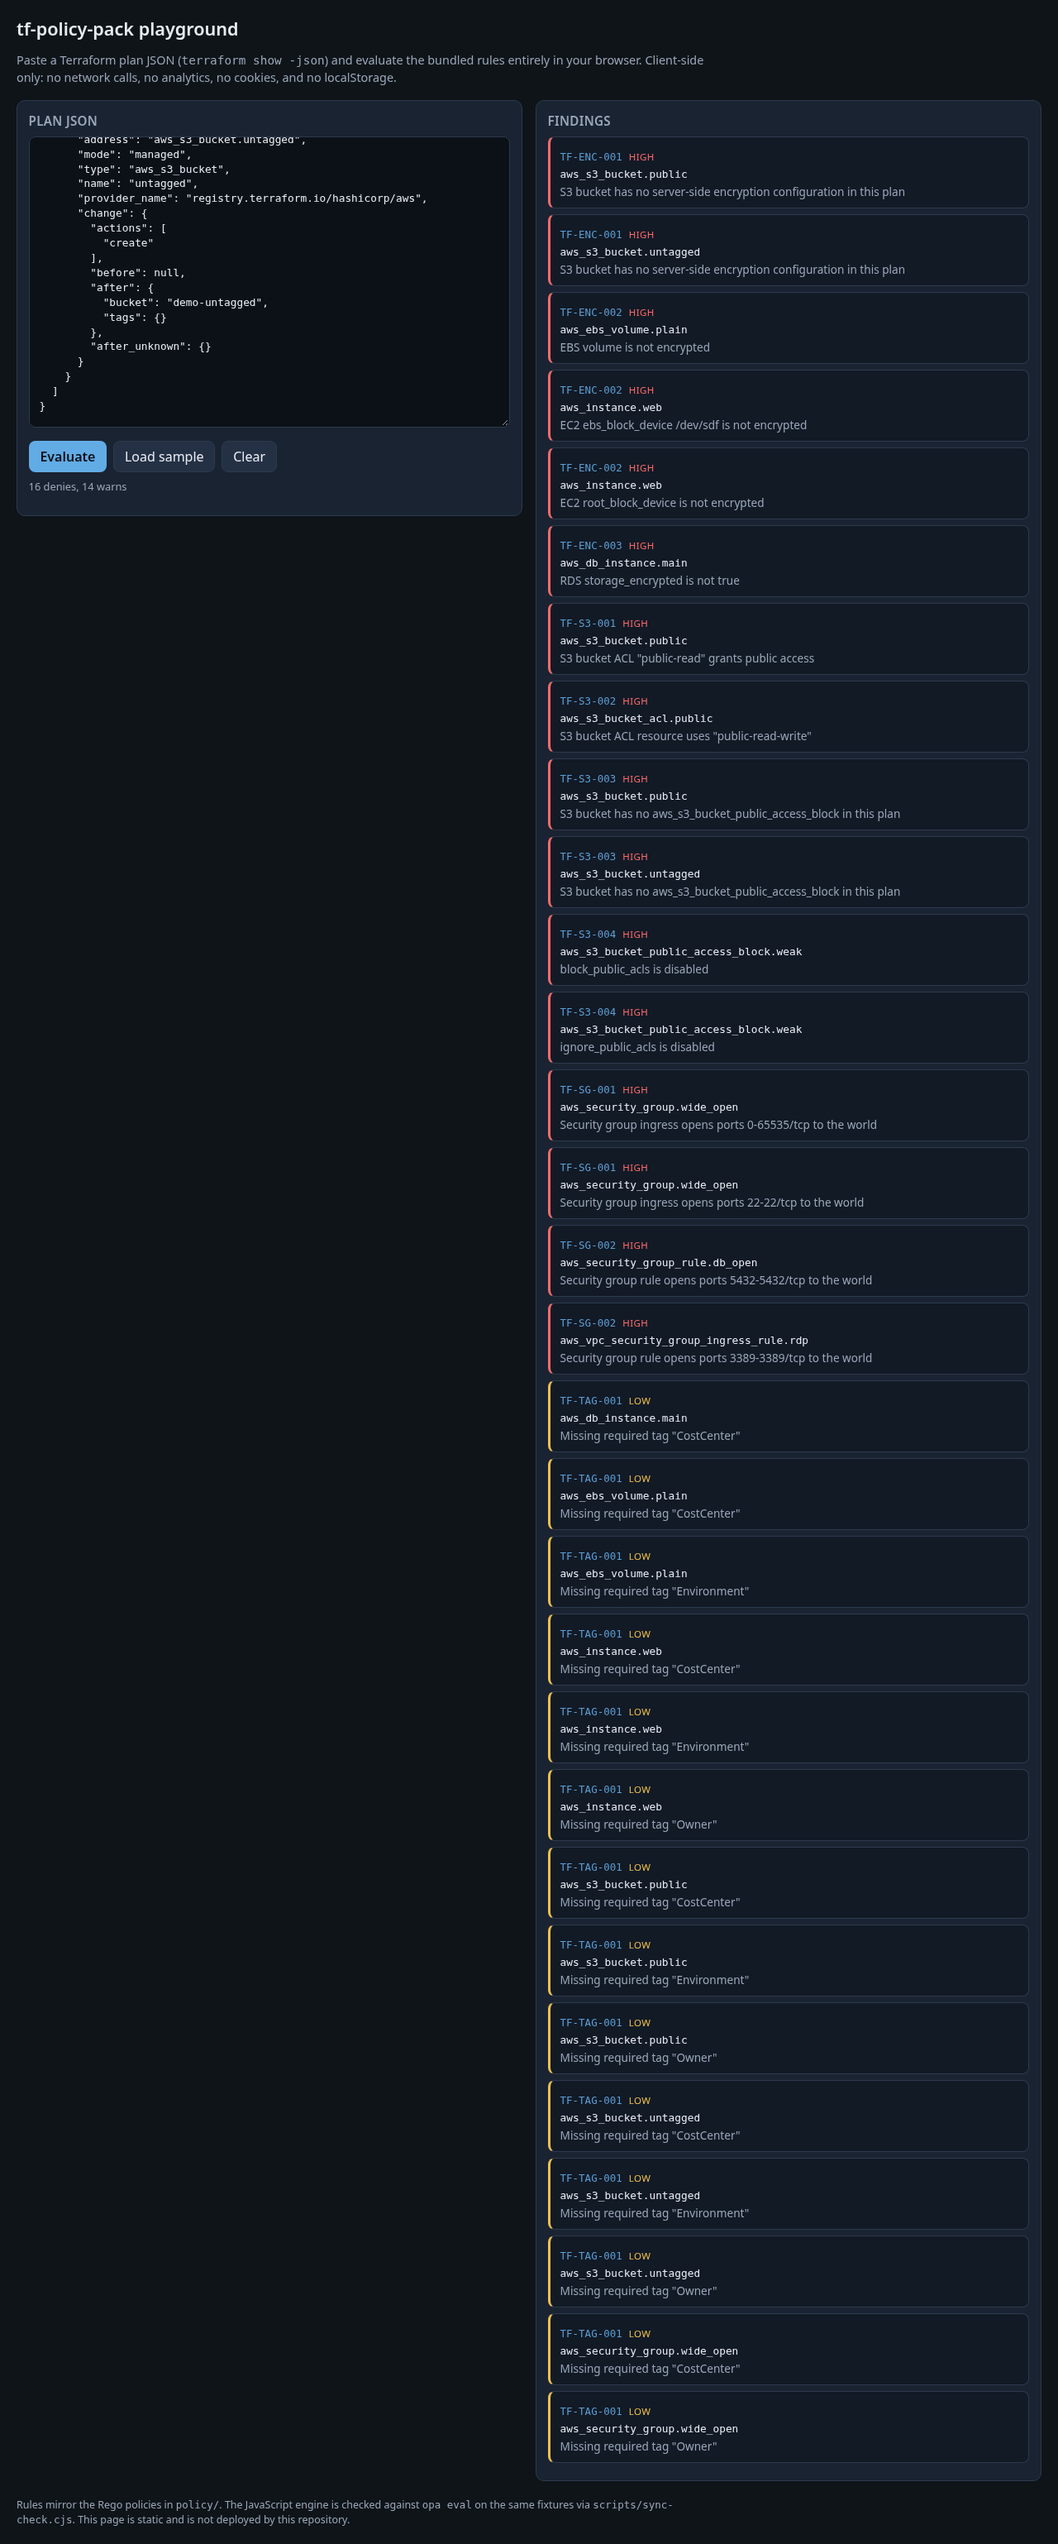
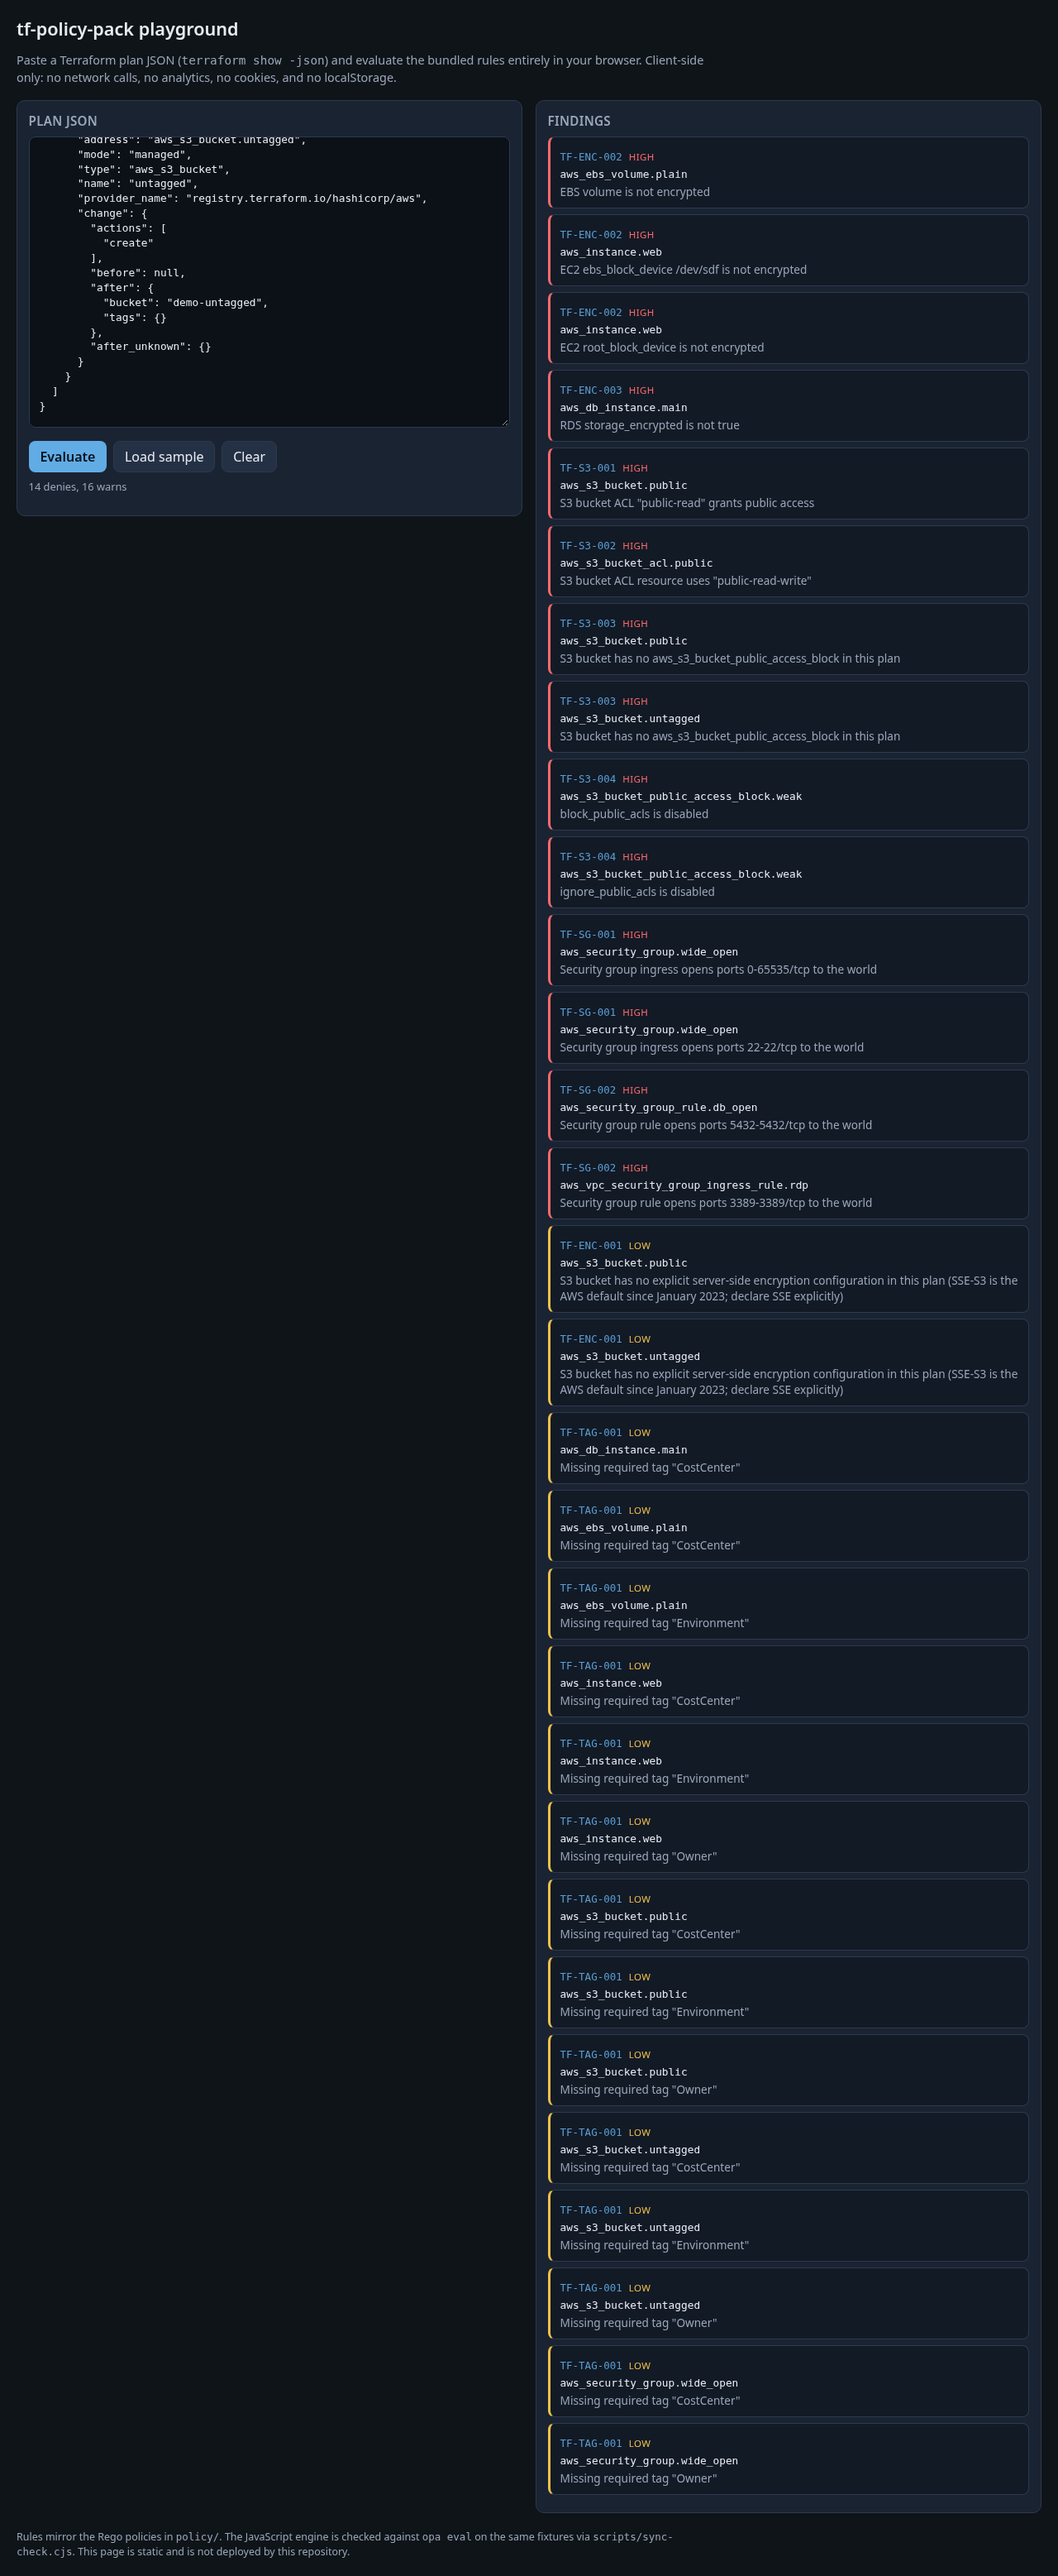
Prefer tags_all, warn on missing S3 SSE, fix module-scoped bucket match
Mafee rule fixes: tags_of prefers tags_all so provider default_tags count;
TF-ENC-001 is a low warn (SSE-S3 default since Jan 2023); authenticated-read
added to public ACL denies; PAB/SSE name matching requires same module_address
and drops the dead address equality. Doug: hardcode OPA/Conftest SHA256 in CI.

diff --git a/playground/policy.js b/playground/policy.js
@@ -1,6 +1,6 @@
 /**
  * Faithful client-side port of the Rego policies in ../policy.
- * Kept in sync by scripts/sync-check.mjs (compares against opa eval on fixtures).
+ * Kept in sync by scripts/sync-check.cjs (compares against opa eval on fixtures).
  */
 (function (root, factory) {
   var api = factory();
@@ -16,6 +16,7 @@
 
   var SENSITIVE_PORTS = [22, 3389, 1433, 1521, 3306, 5432, 6379, 27017, 9200, 11211];
   var DEFAULT_TAGS = ["Owner", "Environment", "CostCenter"];
+  var PUBLIC_ACLS = { "public-read": 1, "public-read-write": 1, "authenticated-read": 1 };
   var TAGGABLE = {
     aws_s3_bucket: 1,
     aws_instance: 1,
@@ -57,10 +58,20 @@
     return rc.change.after;
   }
 
+  function moduleAddress(rc) {
+    return rc.module_address != null ? String(rc.module_address) : "";
+  }
+
+  function sameModule(a, b) {
+    return moduleAddress(a) === moduleAddress(b);
+  }
+
+  // Prefer tags_all (includes provider default_tags). Fall back to tags only when
+  // tags_all is missing, null, or not a plain object.
   function tagsOf(rc) {
     var a = after(rc);
-    if (a.tags && typeof a.tags === "object") return a.tags;
-    if (a.tags_all && typeof a.tags_all === "object") return a.tags_all;
+    if (a.tags_all != null && typeof a.tags_all === "object" && !Array.isArray(a.tags_all)) return a.tags_all;
+    if (a.tags != null && typeof a.tags === "object" && !Array.isArray(a.tags)) return a.tags;
     return {};
   }
 
@@ -104,18 +115,14 @@
 
   function bucketMatches(bucketRc, ref) {
     var a = after(bucketRc);
-    return (
-      ref === a.bucket ||
-      ref === a.id ||
-      ref === bucketRc.address ||
-      ref === bucketRc.type + "." + bucketRc.name
-    );
+    return ref === a.bucket || ref === a.id || ref === bucketRc.type + "." + bucketRc.name;
   }
 
   function hasPublicAccessBlock(rcs, bucketRc) {
     for (var i = 0; i < rcs.length; i++) {
       var pab = rcs[i];
       if (pab.type !== "aws_s3_bucket_public_access_block") continue;
+      if (!sameModule(pab, bucketRc)) continue;
       if (pab.name === bucketRc.name) return true;
       var ref = after(pab).bucket || "";
       if (ref && bucketMatches(bucketRc, ref)) return true;
@@ -129,9 +136,10 @@
     for (var i = 0; i < rcs.length; i++) {
       var sse = rcs[i];
       if (sse.type !== "aws_s3_bucket_server_side_encryption_configuration") continue;
+      if (!sameModule(sse, bucketRc)) continue;
       if (sse.name === bucketRc.name) return true;
       var ref = after(sse).bucket || "";
-      if (ref && (ref === a.bucket || ref === bucketRc.address)) return true;
+      if (ref && ref === a.bucket) return true;
     }
     return false;
   }
@@ -186,7 +194,7 @@
       a = after(rc);
 
       if (rc.type === "aws_s3_bucket") {
-        if (a.acl === "public-read" || a.acl === "public-read-write") {
+        if (PUBLIC_ACLS[a.acl]) {
           deny.push(finding("TF-S3-001", "high", rc.address, 'S3 bucket ACL "' + a.acl + '" grants public access'));
         }
         if (!hasPublicAccessBlock(rcs, rc)) {
@@ -195,14 +203,19 @@
           );
         }
         if (!hasSSE(rcs, rc)) {
-          deny.push(
-            finding("TF-ENC-001", "high", rc.address, "S3 bucket has no server-side encryption configuration in this plan")
+          warn.push(
+            finding(
+              "TF-ENC-001",
+              "low",
+              rc.address,
+              "S3 bucket has no explicit server-side encryption configuration in this plan (SSE-S3 is the AWS default since January 2023; declare SSE explicitly)"
+            )
           );
         }
       }
 
       if (rc.type === "aws_s3_bucket_acl") {
-        if (a.acl === "public-read" || a.acl === "public-read-write") {
+        if (PUBLIC_ACLS[a.acl]) {
           deny.push(finding("TF-S3-002", "high", rc.address, 'S3 bucket ACL resource uses "' + a.acl + '"'));
         }
       }

diff --git a/README.md b/README.md
@@ -12,16 +12,16 @@ Infrastructure misconfigurations (public buckets, world-open SSH/RDP/DB ports, m
 
 | ID | Severity | Rule | Signal |
 | --- | --- | --- | --- |
-| `TF-S3-001` | high (`deny`) | Public S3 ACL on `aws_s3_bucket` | `acl` is `public-read` or `public-read-write` |
-| `TF-S3-002` | high (`deny`) | Public S3 ACL on `aws_s3_bucket_acl` | same ACL values |
-| `TF-S3-003` | high (`deny`) | Missing public access block | bucket in plan without matching `aws_s3_bucket_public_access_block` |
+| `TF-S3-001` | high (`deny`) | Public / authenticated-read S3 ACL on `aws_s3_bucket` | `acl` is `public-read`, `public-read-write`, or `authenticated-read` |
+| `TF-S3-002` | high (`deny`) | Public / authenticated-read S3 ACL on `aws_s3_bucket_acl` | same ACL values |
+| `TF-S3-003` | high (`deny`) | Missing public access block | bucket in plan without matching `aws_s3_bucket_public_access_block` in the same module |
 | `TF-S3-004` | high (`deny`) | Disabled public access block flags | any of the four block flags is false |
 | `TF-SG-001` | high (`deny`) | Open security group ingress | `0.0.0.0/0` or `::/0` on sensitive ports (22, 3389, DB ports) or all ports |
 | `TF-SG-002` | high (`deny`) | Open standalone SG / VPC ingress rule | same CIDR/port checks on `aws_security_group_rule` and `aws_vpc_security_group_ingress_rule` |
-| `TF-ENC-001` | high (`deny`) | S3 without SSE | no `aws_s3_bucket_server_side_encryption_configuration` (or legacy inline SSE) |
+| `TF-ENC-001` | low (`warn`) | S3 without explicit SSE | no `aws_s3_bucket_server_side_encryption_configuration` (or legacy inline SSE); AWS has SSE-S3 by default since Jan 2023 |
 | `TF-ENC-002` | high (`deny`) | Unencrypted EBS | `aws_ebs_volume` / EC2 root or ebs block devices with `encrypted != true` |
 | `TF-ENC-003` | high (`deny`) | Unencrypted RDS | `storage_encrypted != true` on `aws_db_instance` / `aws_rds_cluster` |
-| `TF-TAG-001` | low (`warn`) | Missing required tags | configurable keys (default `Owner`, `Environment`, `CostCenter`) |
+| `TF-TAG-001` | low (`warn`) | Missing required tags | configurable keys (default `Owner`, `Environment`, `CostCenter`); prefers `tags_all` so provider `default_tags` count |
 
 Required tag keys live in [`data/required_tags.json`](data/required_tags.json):
 
@@ -46,7 +46,7 @@ Sample output from the bundled bad fixture is in [`docs/sample-output.txt`](docs
 
 ## OPA unit tests
 
-Pinned tooling used while developing this pack: **OPA 1.22.2**, **Conftest 0.71.1** (checksum-verified from GitHub release assets).
+Pinned tooling used while developing this pack: **OPA 1.22.2**, **Conftest 0.71.1** (SHA256 values hardcoded in CI; verified against official GitHub release assets).
 
 ```bash
 opa test policy/ data/ -v
@@ -65,7 +65,7 @@ This repository does **not** deploy the playground.
 
 ## CI
 
-[`.github/workflows/ci.yml`](.github/workflows/ci.yml) runs on push/PR with `permissions: contents: read`, third-party actions pinned to full commit SHAs, checksum-verified OPA/Conftest installs, `opa test`, Conftest on good/bad fixtures, and the playground sync check.
+[`.github/workflows/ci.yml`](.github/workflows/ci.yml) runs on push/PR with `permissions: contents: read`, third-party actions pinned to full commit SHAs, OPA/Conftest installs verified against hardcoded SHA256 env constants, `opa test`, Conftest on good/bad fixtures, and the playground sync check.
 
 ## Layout
 
@@ -81,9 +81,14 @@ docs/            sample Conftest output + playground screenshot
 ## Limits
 
 - Evaluates **planned** create/update resources from `resource_changes[].change.after`. Destroy-only and read-only changes are ignored.
-- Public-access-block and SSE linkage uses Terraform resource **name** and/or the `bucket` attribute string in the plan. Complex `for_each` / remote-state references may not correlate.
+- Public-access-block and SSE linkage uses Terraform resource **name** and/or the `bucket` attribute string in the plan, scoped by `module_address`. Complex `for_each` / remote-state references may not correlate.
 - Sensitive ports are a fixed set (SSH, RDP, common DB/cache). Customize in `policy/helpers.rego` (and mirror in `playground/policy.js`).
-- Tag policy is warn-only and case-insensitive on keys; it does not validate tag *values*.
+- Sensitive-port matching ignores protocol, so UDP 22 is flagged.
+- Tag policy is warn-only and case-insensitive on keys; it prefers `tags_all` (provider `default_tags`) and falls back to `tags`. It does not validate tag *values*.
+- There is no rule for `aws_launch_template` block devices.
+- Account-level default EBS and RDS encryption appears as unknown in the plan, so volumes/instances that rely on it can be flagged.
+- Public bucket policies (`aws_s3_bucket_policy` with `Principal: "*"`) are not checked.
+- New buckets have had public access blocked by default since April 2023, so `TF-S3-003` means "make the block explicit in the plan".
 - Not a replacement for AWS Config, SCP, or provider-side defaults (S3 Block Public Access account settings, etc.).
 - Playground is for demos and local review; CI should run Conftest/OPA on real plan JSON.
 
